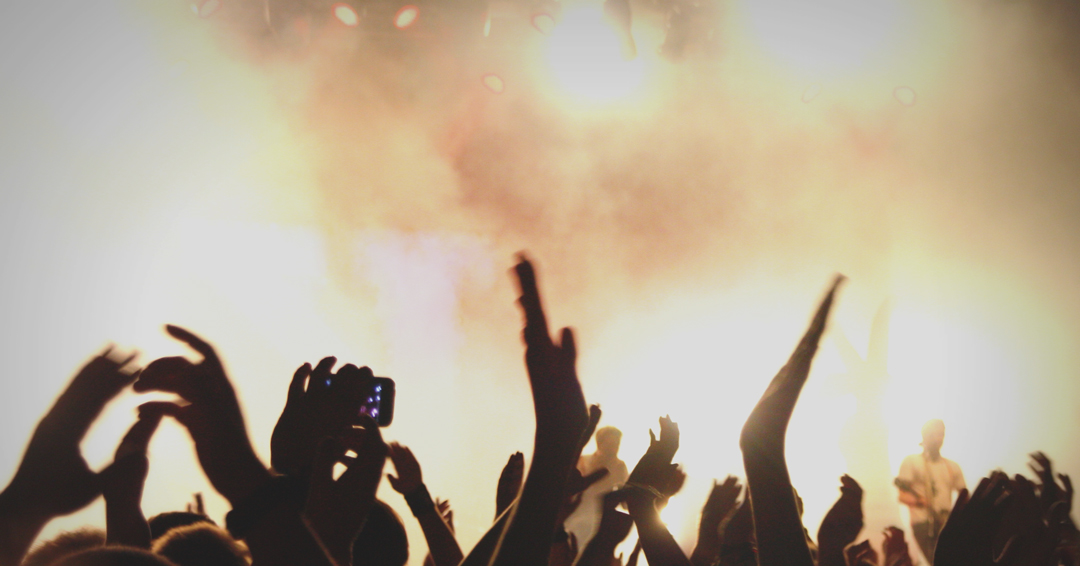
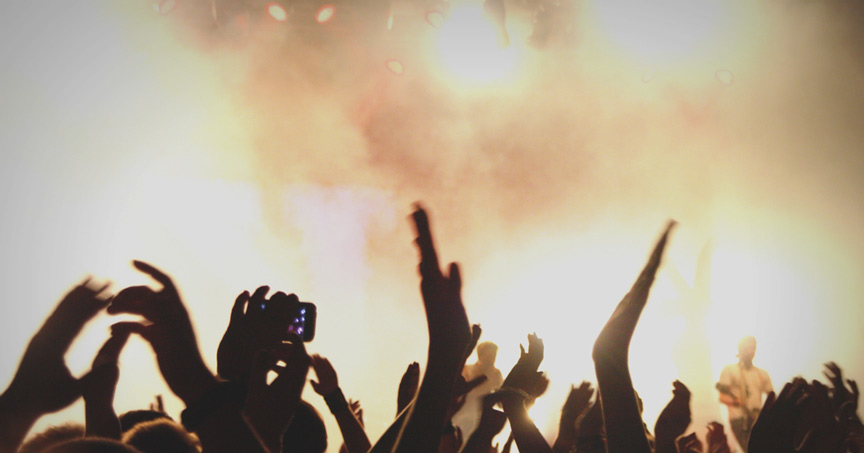
optimized images

diff --git a/app/assets/stylesheets/team.css.scss b/app/assets/stylesheets/team.css.scss
@@ -13,7 +13,7 @@
 
   background-position: bottom;
   background-size: cover;
-  background: asset-url("mae.png");
+  background: asset-url("mae.jpg");
   background-position: 50% 50%;
   background-size: cover;
   background-color: #BEB56E;
@@ -95,7 +95,7 @@ li.block.talal {
   .hover-tile-outer {
     background-position: bottom;
     background-size: cover;
-    background: asset-url("talal.png");
+    background: asset-url("talal.jpg");
     background-position: 50% 50%;
     background-size: cover;
   }
@@ -105,7 +105,7 @@ li.block.david {
   .hover-tile-outer {
     background-position: bottom;
     background-size: cover;
-    background: asset-url("david.png");
+    background: asset-url("david.jpg");
     background-position: 50% 50%;
     background-size: cover;
   }
@@ -115,7 +115,7 @@ li.block.justin {
   .hover-tile-outer {
     background-position: bottom;
     background-size: cover;
-    background: asset-url("justin.png");
+    background: asset-url("justin.jpg");
     background-position: 50% 50%;
     background-size: cover;
   }
@@ -125,7 +125,7 @@ li.block.jeremy {
   .hover-tile-outer {
     background-position: bottom;
     background-size: cover;
-    background: asset-url("jeremy.png");
+    background: asset-url("jeremy.jpg");
     background-position: 50% 50%;
     background-size: cover;
   }
@@ -135,7 +135,7 @@ li.block.scott {
   .hover-tile-outer {
     background-position: bottom;
     background-size: cover;
-    background: asset-url("scott.png");
+    background: asset-url("scott.jpg");
     background-position: 50% 50%;
     background-size: cover;
   }
@@ -145,7 +145,7 @@ li.block.sebastian {
   .hover-tile-outer {
     background-position: bottom;
     background-size: cover;
-    background: asset-url("sebastian.png");
+    background: asset-url("sebastian.jpg");
     background-position: 50% 50%;
     background-size: cover;
   }

diff --git a/app/assets/stylesheets/welcome.css.scss b/app/assets/stylesheets/welcome.css.scss
@@ -194,7 +194,7 @@ div.cont3 {
 }
 
 div.cont4 {
-  background-image: asset-url('iphonec.png');
+  background-image: asset-url('iphonec.jpg');
   background-size: cover;
   background-repeat: no-repeat;
   width: 100%;
@@ -203,7 +203,7 @@ div.cont4 {
   color: white;
   
   @include media($mobile) {
-    background-image: asset-url('iphonec.png');
+    background-image: asset-url('iphonec.jpg');
     background-size: 300%;
     background-repeat: no-repeat;
     background-position: 20% 0% ;

diff --git a/app/assets/stylesheets/application.css.scss b/app/assets/stylesheets/application.css.scss
@@ -71,7 +71,7 @@ header.topbar {
         }
         @include media($medium-screen) {
         @include span-columns(2);
-         @include shift(1);
+        @include shift(1);
         }
         // @include shift(0);
         color: white;
